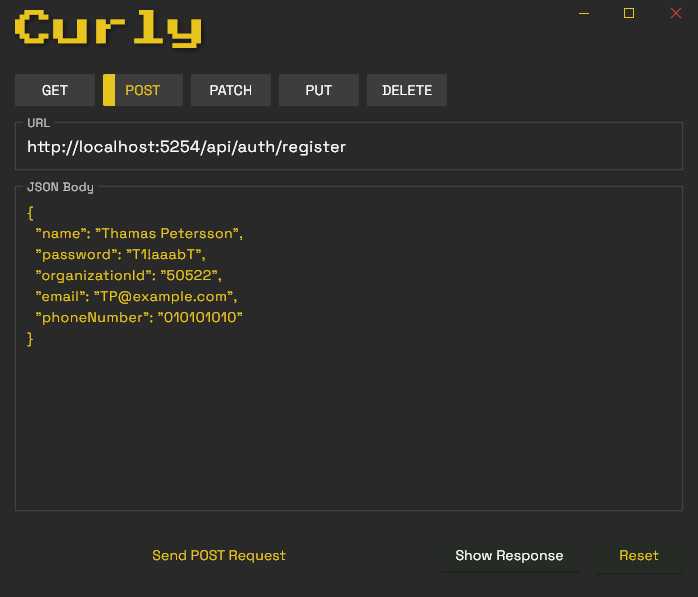
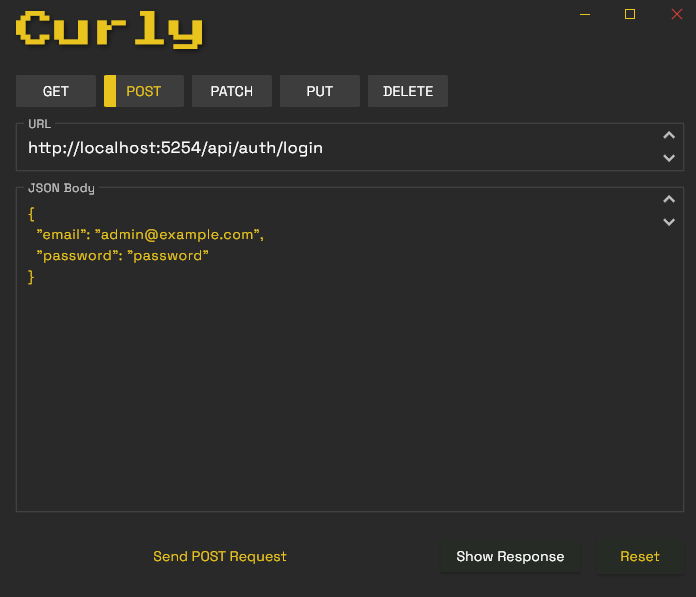
Update README.md

diff --git a/README.md b/README.md
@@ -1,6 +1,6 @@
 # Curly
 
-A clean and simple HTTP client desktop app built with Flutter for quickly testing REST APIs. Send GET, POST, PUT, PATCH, and DELETE requests.
+A simple HTTP client desktop app built with Flutter for quickly testing REST APIs. Send GET, POST, PUT, PATCH, and DELETE requests.
 <br>
 
 ## Download
@@ -19,23 +19,25 @@ You can download the latest release
 ## Features
 
 - **Multiple HTTP Methods**: Support for GET, POST, PUT, PATCH, and DELETE requests
-- **Smart Query Parameters**: Automatically converts JSON body to query parameters for GET requests
-- **Error Handling**: Clear error messages and status code reporting
+- **Smart query parameters**: Automatically converts JSON body to query parameters for GET requests
+- **Error handling**: Clear error messages and status code reporting
+- **Persist data**: The last five url and json-inputs are saved for convenience 
 
 ## How to Use
 
-1. **Select HTTP Method**: Choose from GET, POST, PUT, PATCH, or DELETE
+1. **Select HTTP method**: Choose from GET, POST, PUT, PATCH, or DELETE
 2. **Enter URL**: Add your API endpoint URL
 3. **Add JSON Body**: For GET requests, JSON will be converted to query parameters
-4. **Send Request**: Click the send button to execute your request
-5. **View Response**: See response with status code
+4. **Send request**: Click the send button to execute your request
+5. **View response**: See response with status code
+6. **Use arrows**: Go back to your latest requests
 <br>
 <br>
 <br>
 
-<h2 align="center">201 Response</h2>
+<h2 align="center">200 Response</h2>
 <p align="center">
-  <img src="images/Screenshot_272.png" alt="201 Response" />
+  <img src="images/Screenshot_272.png" alt="200 Response" />
 </p>
 
 <h2 align="center">400 Response</h2>
